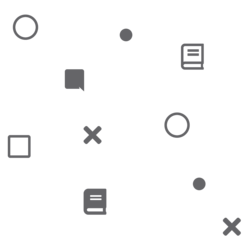
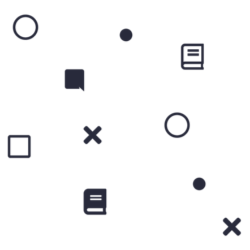
ф

diff --git a/css/style.css b/css/style.css
@@ -18,7 +18,7 @@
 
 body {
 	background: url(../img/bg.png) repeat;
-	background-color: #2c2f33;
+	background-color: #202230;
 	align-items: center;
 	display: flex;
 	cursor: none;
@@ -55,7 +55,7 @@ body {
 	list-style: none;
 	width: 20px;
 	height: 20px;
-	background: rgba(255, 255, 255, 0.2);
+	background: #7f78bd3b;
 	animation: animate 25s linear infinite;
 	bottom: -150px;
 }
